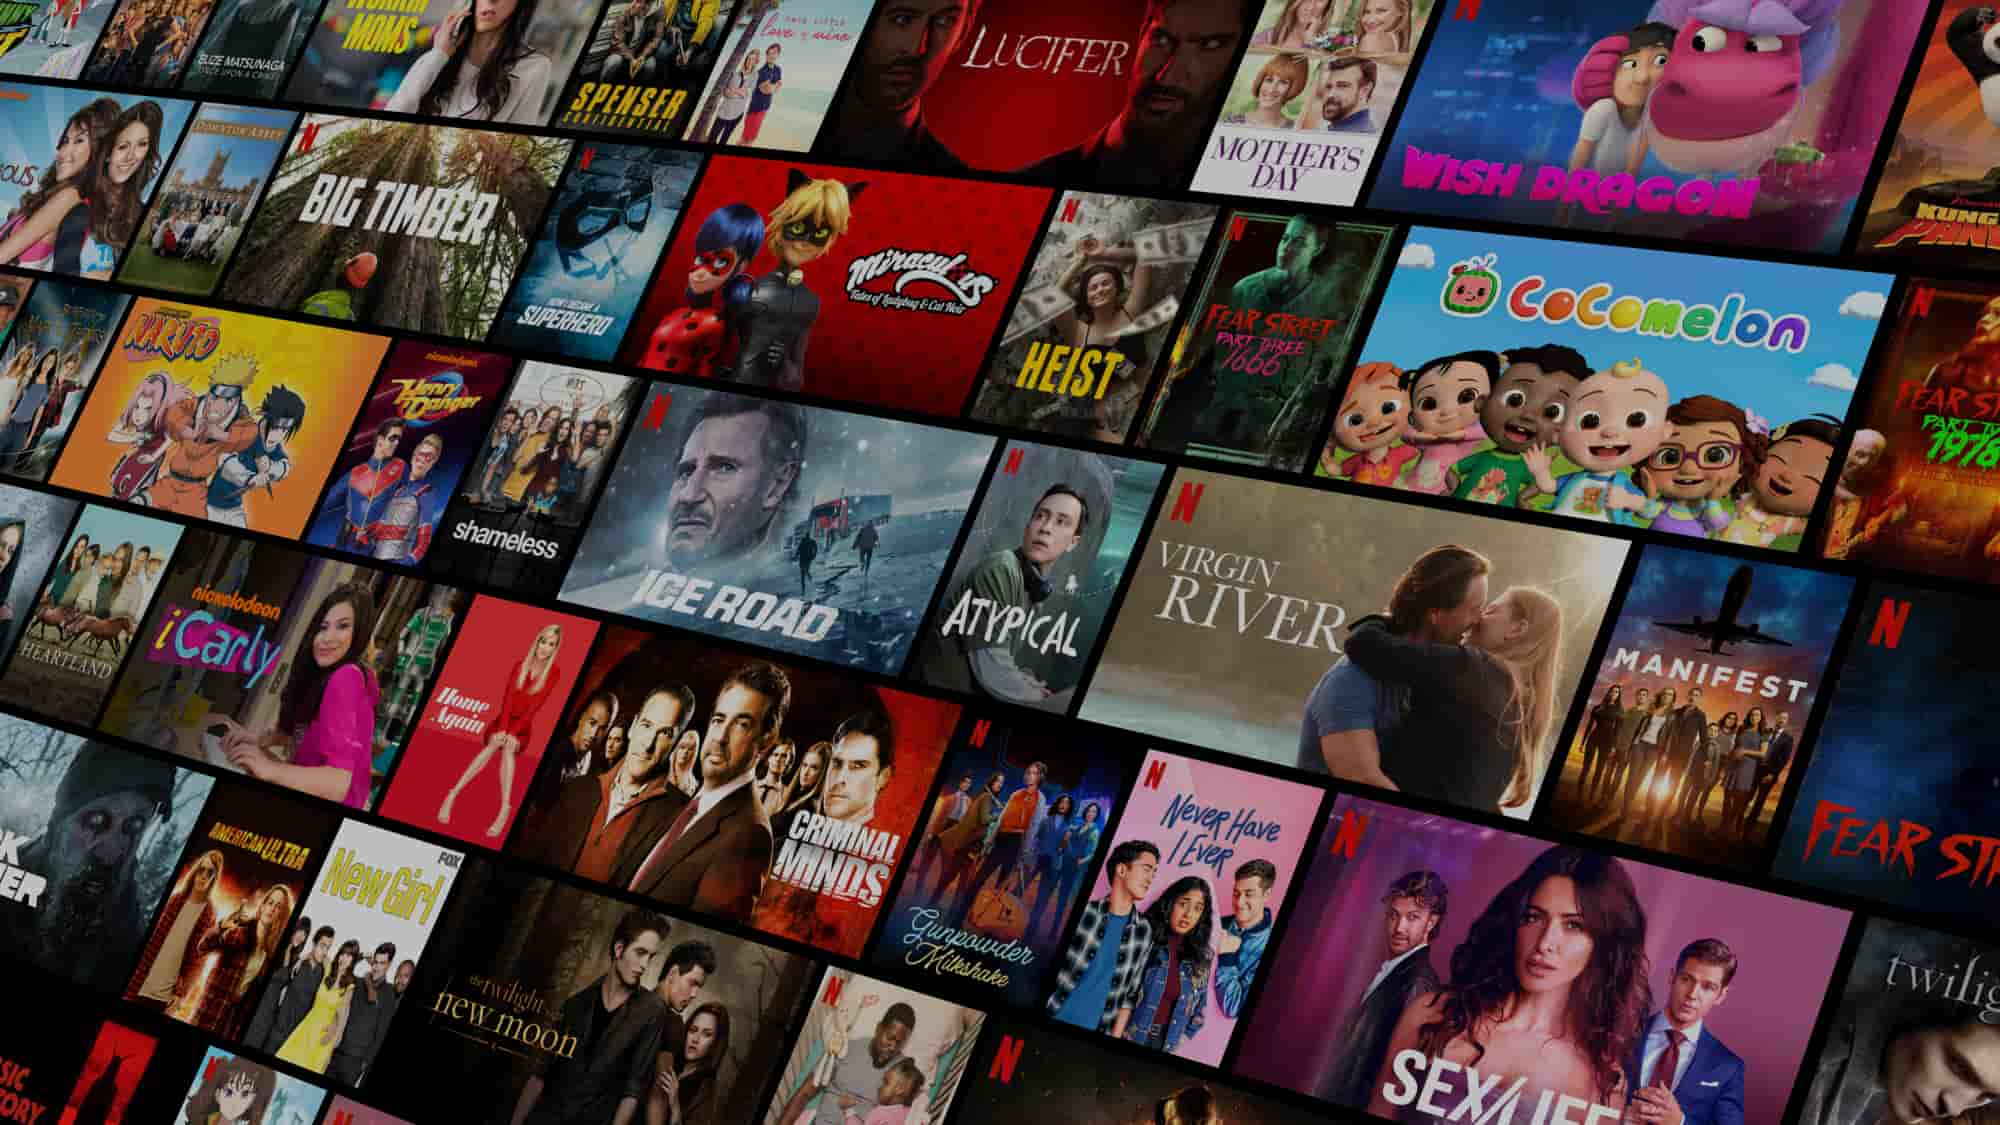
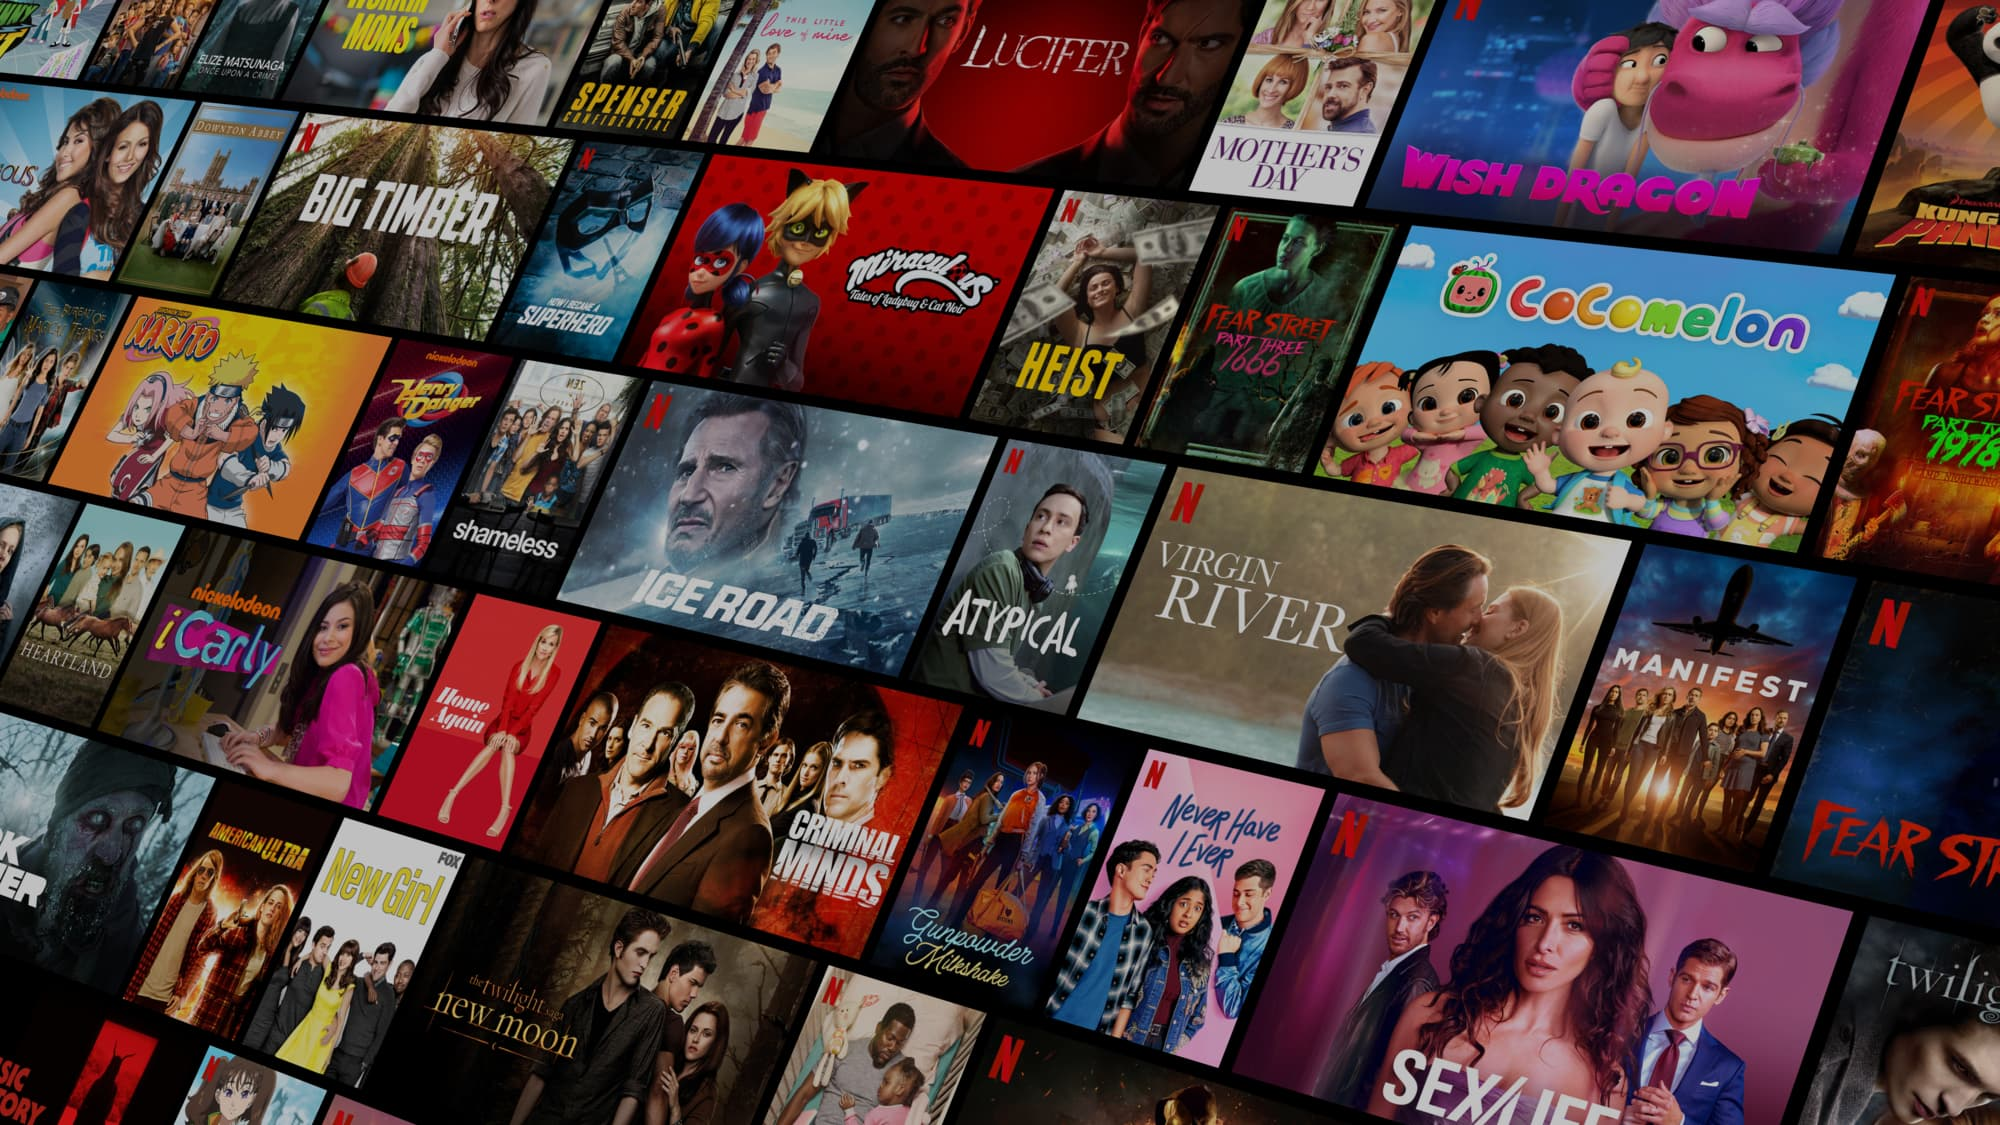
Add homepage images

diff --git a/frontend/src/containers/HeaderContainer.js b/frontend/src/containers/HeaderContainer.js
@@ -12,8 +12,8 @@ import EmailForm from '../components/Header/EmailForm';
 function HeaderContainer({ children, ...restProps }) {
 
     return (
-        <div className="header-container">
-            <HeaderWrapper className="header-wrapper-home">
+        <div className="header-container" style={{ backgroundImage: `linear-gradient(to top,rgba(0,0,0,.8) 0,rgba(0,0,0,0) 60%,rgba(0,0,0,.8) 100%), url("./images/misc/home-bg-en.jpg")`, backgroundSize: 'cover'}}>
+            <HeaderWrapper className="header-wrapper-home" >
                 <div className="nav-bar-wrapper">
                     <Navbar className="nav-bar-home">
                         <Logo />
@@ -26,12 +26,6 @@ function HeaderContainer({ children, ...restProps }) {
                 </div>
 
                 <BannerWrapper className="banner-home-wrapper">
-                    <div className="banner-home-background">
-                        <div className="banner-home-bg-wrapper">
-                            <img className="banner-home-bg-img" href="/" src="./images/misc/home-bg-en.jpg" alt="Netflix Banner" />
-                            <div className="banner-home-bg-img-gradient"></div>
-                        </div>
-                    </div>
                     <div className="banner-home-text">
                         <Typography tag='h1'>Unlimited movies, TV shows, and more.</Typography>
                         <Typography tag='h2'>Watch anywhere. Cancel anytime.</Typography>
@@ -41,9 +35,7 @@ function HeaderContainer({ children, ...restProps }) {
                         </div>
                     </div>
                 </BannerWrapper>
-
                 {children}
-
             </HeaderWrapper>
         </div>
     );

diff --git a/frontend/src/pages/HomePage.js b/frontend/src/pages/HomePage.js
@@ -1,12 +1,25 @@
 import React from 'react';
+import Card from '../components/Card/Card';
+import Typography from '../components/Typography/Typography';
 import HeaderContainer from '../containers/HeaderContainer';
-import Seperator from '../components/Seperator/Seperator';
 
 function HomePage() {
     return (
         <>
             <HeaderContainer />
-            <Seperator />
+            <Card className="card" alignImg="right">
+                <div className="card-container">
+                    <div className="card-text-tv">
+                        <Typography tag='h1'>Unlimited movies, TV shows, and more.</Typography>
+                        <Typography tag='h2'>Unlimited movies, TV shows, and more.</Typography>
+                    </div>
+                    <div className="card-img-tv">
+                        {/* <img className="tv-image" href="/" src="./images/misc/tv.png" alt="Netflix Banner" /> */}
+                        <div className="tv-video">
+                        </div>
+                    </div>
+                </div>
+            </Card>
         </>
     )
 }

diff --git a/frontend/src/components/Header/HeaderStyles.css b/frontend/src/components/Header/HeaderStyles.css
@@ -1,3 +1,9 @@
+
+.header-container {
+    border-bottom: 8px solid #222;
+    height: 746px;
+}
+
 /* 	
 =============================================================================
  NAV BAR
@@ -99,39 +105,6 @@
  BANNER STYLES
 =============================================================================
 */
-
-/* Background
-========================================================================== */
-.banner-home-background {
-    top: -100px;
-    z-index: 0;
-    left: 0;
-    right: 0;
-    bottom: 0;
-    overflow: hidden;
-}
-
-.banner-home-bg-wrapper {
-    top: 0;
-    width: 100%;
-    position: absolute;
-    height: 80%;
-}
-
-.banner-home-bg-img {
-    width: 100%;
-    height: 100%;
-    object-fit: cover;
-}
-
-.banner-home-bg-img-gradient{
-    position: absolute;
-    top: 0;
-    bottom: 0;
-    left: 0;
-    right: 0;
-    background-image: linear-gradient(to top,rgba(0,0,0,.8) 0,rgba(0,0,0,0) 60%,rgba(0,0,0,.8) 100%);
-}
 
 /* Text
 ========================================================================== */

diff --git a/frontend/src/components/Header/EmailForm.js b/frontend/src/components/Header/EmailForm.js
@@ -1,9 +1,10 @@
 import React from 'react'
 import './EmailFormStyles.css'
+import { useMediaQuery } from 'react-responsive'
 import api from '../../api'
 
 function EmailForm(props) {
-
+    
     const user = {
         email: ''
     }
@@ -15,7 +16,7 @@ function EmailForm(props) {
     }
 
     const handleSubmit = async (email) => {
-        if (email == '' || email == null || !email.includes('@'))
+        if (email === '' || email === null || !email.includes('@'))
             return;
 
         const username = await api.get(`/users/${email}`).then(res => {

diff --git a/frontend/src/components/Card/Card.js b/frontend/src/components/Card/Card.js
@@ -1,16 +1,22 @@
 import React from 'react'
 import PropTypes from 'prop-types'
+import './CardStyles.css'
 
 function Card(props) {
     return (
         <div className={props.className}>
             {props.children}
-        </div>            
+        </div>         
     )
 }
 
 Card.propTypes = {
-    className: PropTypes.string
+    className: PropTypes.string,
+    alignImg: PropTypes.oneOf(['left', 'right'])
+}
+
+Card.defaultProps = {
+    className: 'card'
 }
 
 export default Card

diff --git a/frontend/src/components/Card/CardStyles.css b/frontend/src/components/Card/CardStyles.css
@@ -1,0 +1,5 @@
+.card-container {
+    display: flex;
+    justify-content: center;
+    align-items: center;
+}
